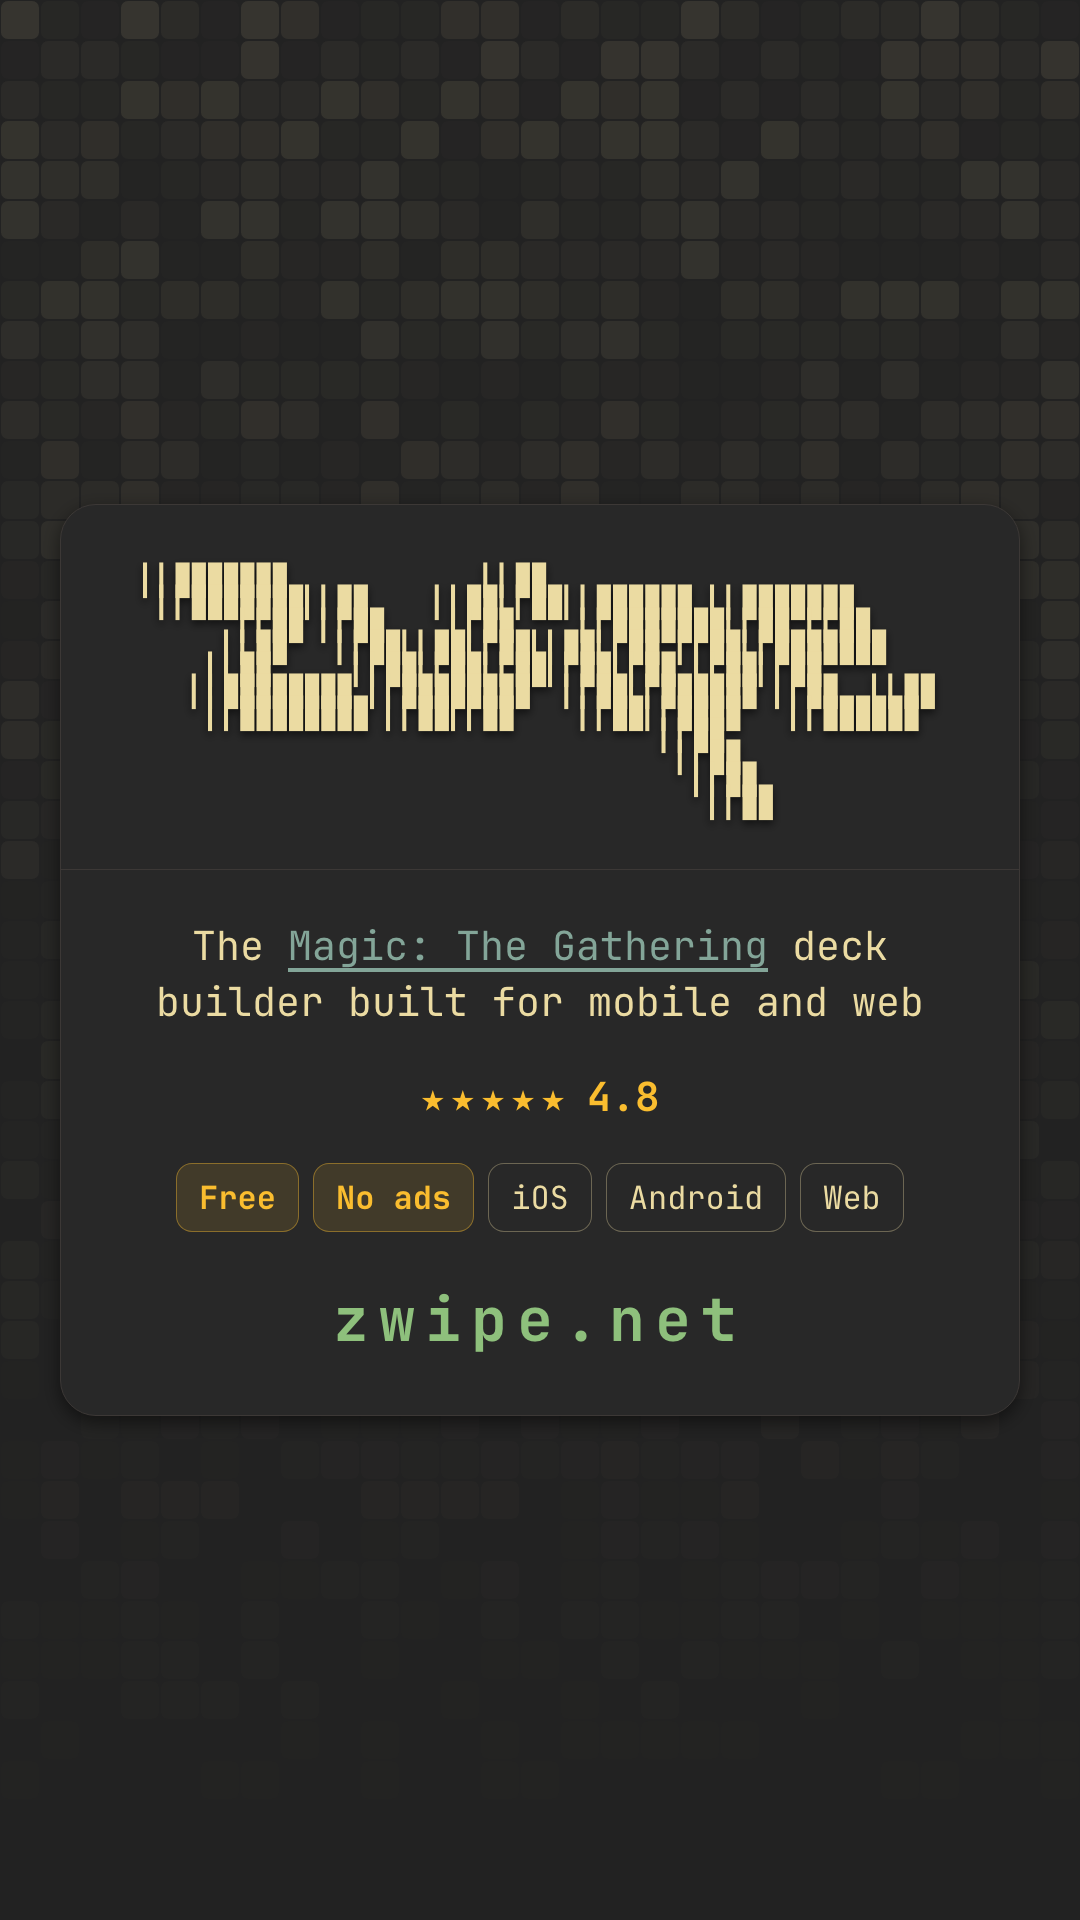
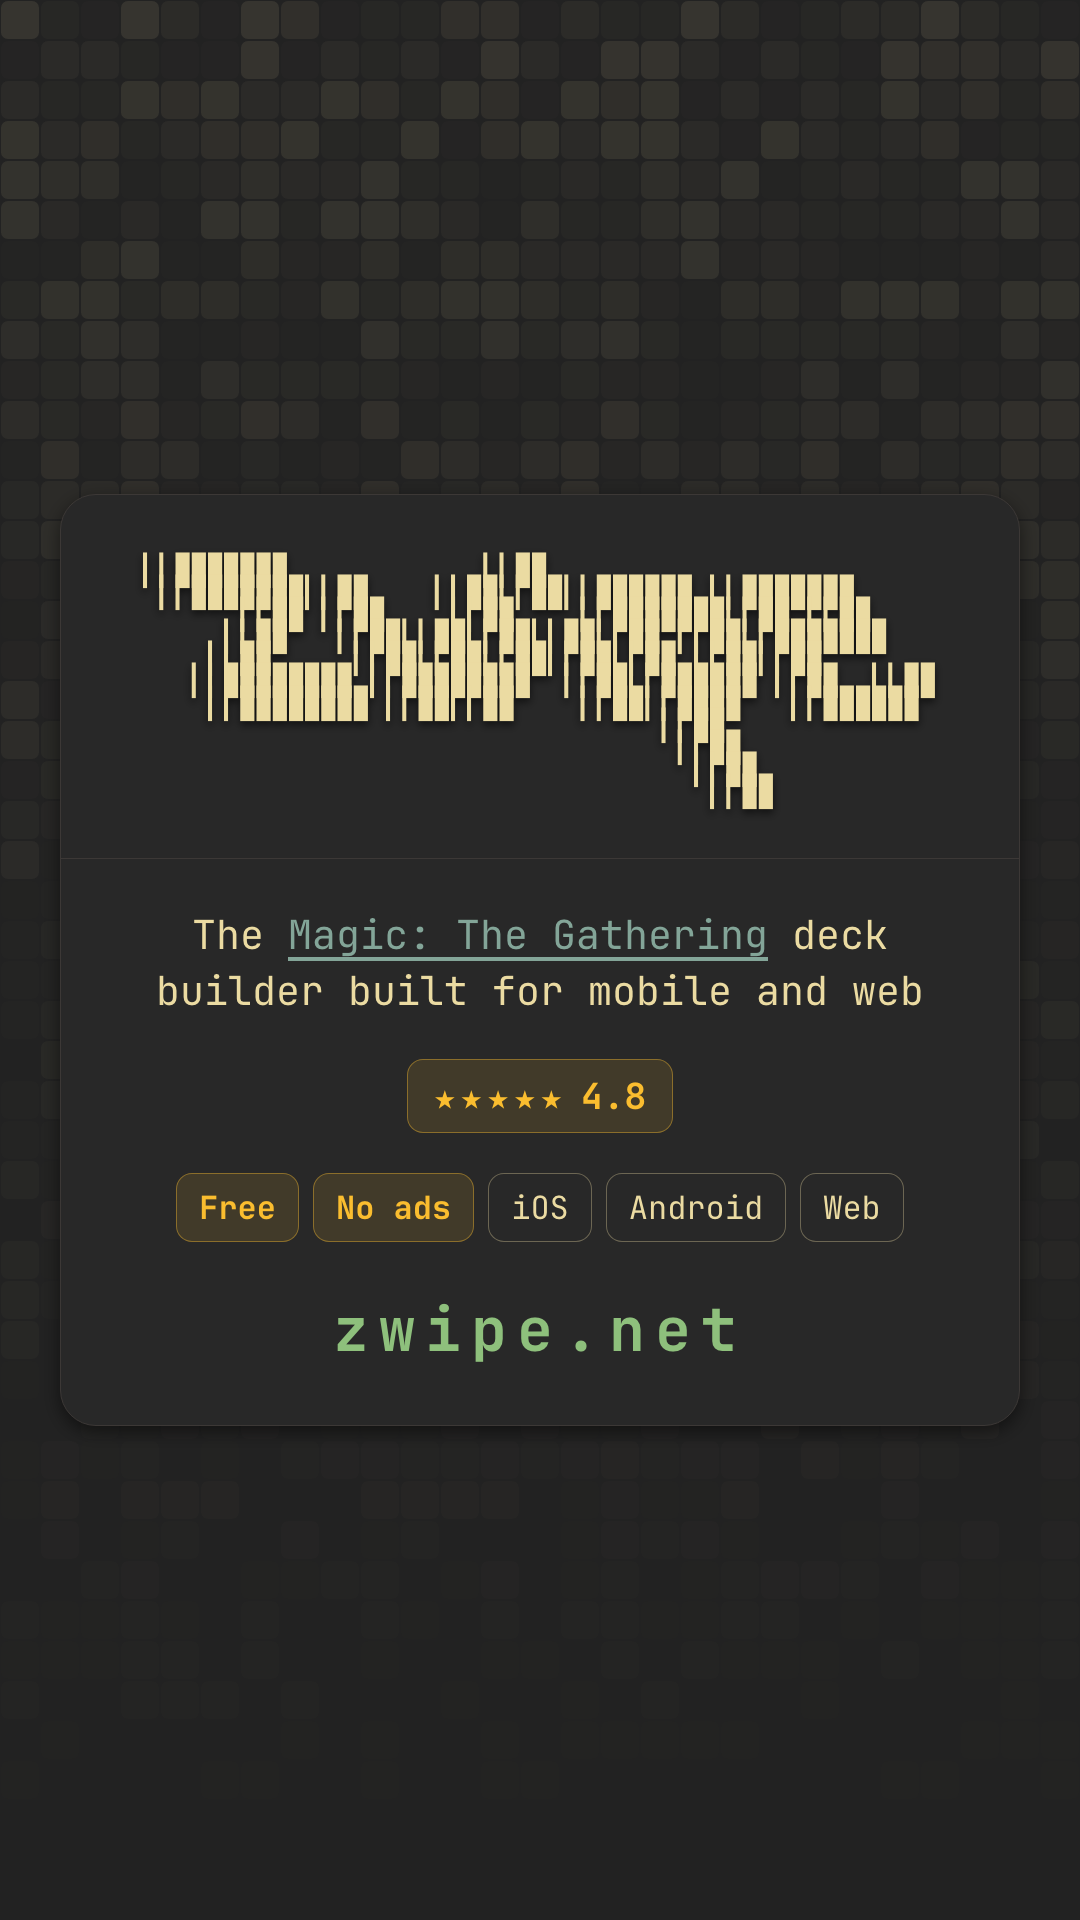
Video end card: the 4.8 rating in a gold value chip

Changed region(s): [[0.1528, 0.4688, 0.8556, 0.7188], [0.1528, 0.2812, 0.8861, 0.4375], [0.7639, 0.5938, 0.825, 0.6562]]

diff --git a/context/marketing/video_end_card.html b/context/marketing/video_end_card.html
@@ -6,7 +6,7 @@
      zwipe.net's OG image style (og_default.html, zite/public/assets/og-default.png):
      the sites' backdrop of shaded squares on a darkened --bg-sink, and on it one
      panel holding, top to bottom, the Zwipe wordmark, a rule across the panel,
-     the tagline, the rating, the chips (Free and No ads as value chips, iOS,
+     the tagline, the rating in a gold chip, the chips (Free and No ads as value chips, iOS,
      Android and Web as store pills) and zwipe.net. Nothing sits on the open grid.
      The block-glyph wordmark needs the app's self-hosted JetBrains Mono (the CDN
      fontsource subset drops U+2580-U+259F), so the font is loaded from
@@ -98,13 +98,16 @@ body {
   text-underline-offset: 8px;
 }
 
+/* The rating in a gold value chip, stars and score together, a size up from
+   the chips under it. */
 .rating {
   margin-top: 40px;
-  font-size: 40px;
-  font-weight: 700;
-  color: var(--palette-5);
 }
-.stars { letter-spacing: 6px; margin-right: 16px; }
+.rating.tag {
+  font-size: 36px;
+  padding: 12px 26px;
+}
+.stars { letter-spacing: 5px; margin-right: 14px; }
 
 /* The hero's chips: a value chip's --c is its text, tint and border; a store
    pill is plain text on the panel. */
@@ -181,7 +184,7 @@ body {
                                    ▎▎▉▉</pre>
     <hr class="rule" />
     <div class="tagline">The <span class="link">Magic: The Gathering</span> deck builder built for mobile and web</div>
-    <div class="rating"><span class="stars">★★★★★</span>4.8</div>
+    <div class="rating tag tag-value"><span class="stars">★★★★★</span>4.8</div>
     <div class="tags">
       <span class="tag tag-value">Free</span>
       <span class="tag tag-value">No ads</span>
